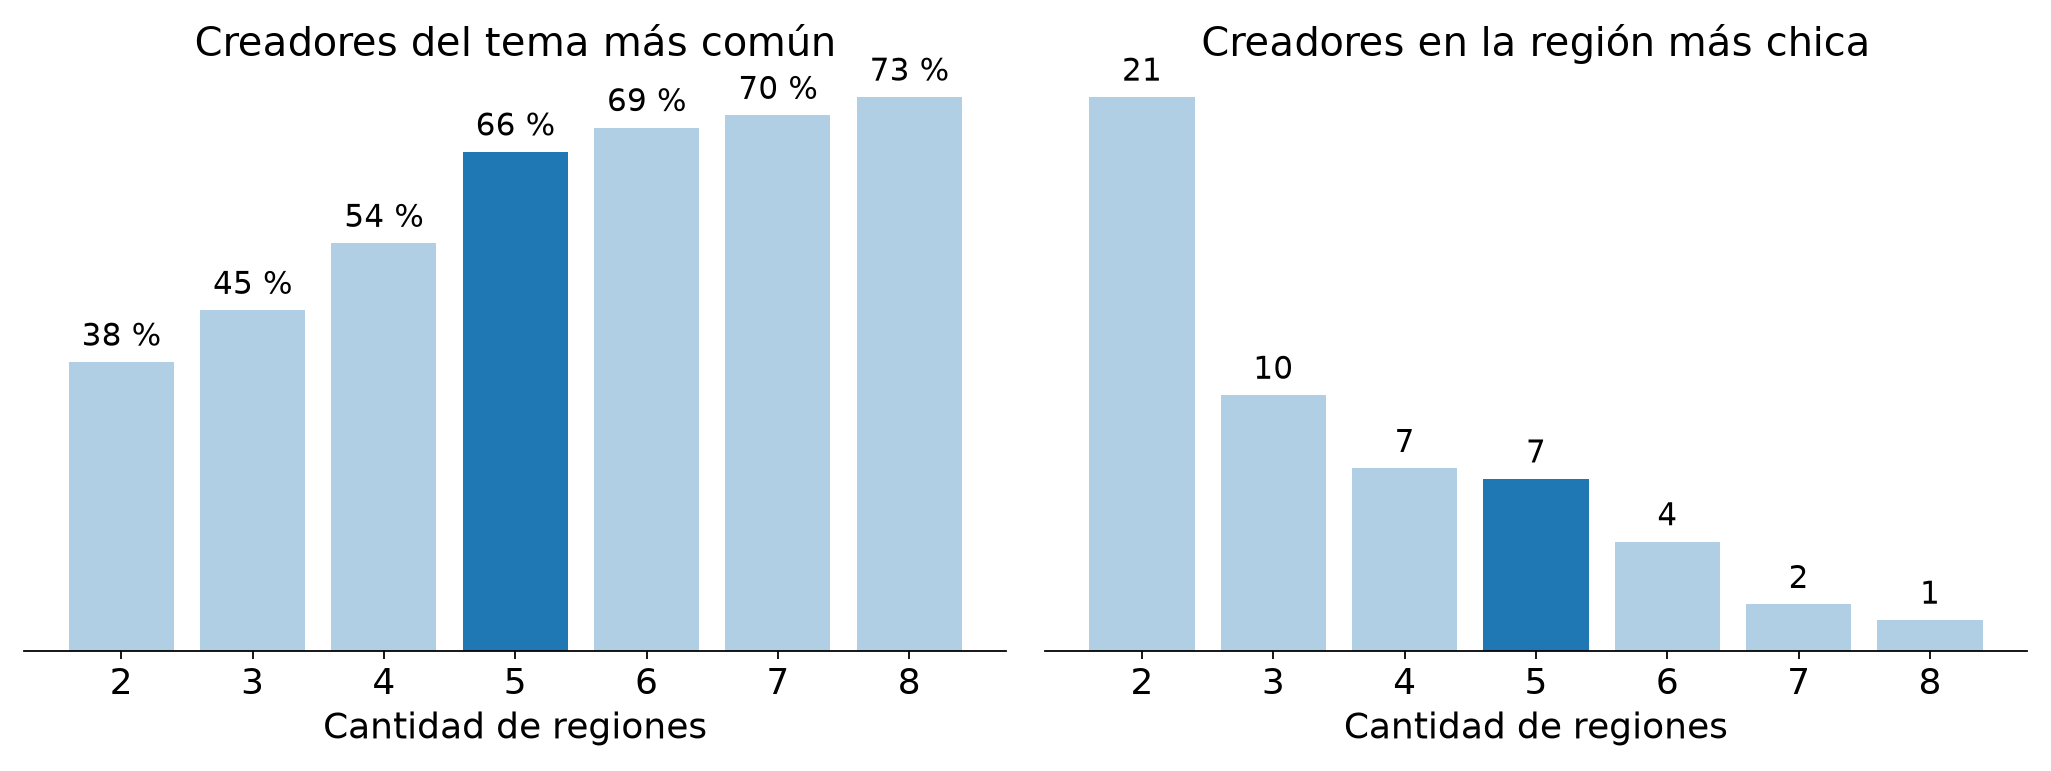
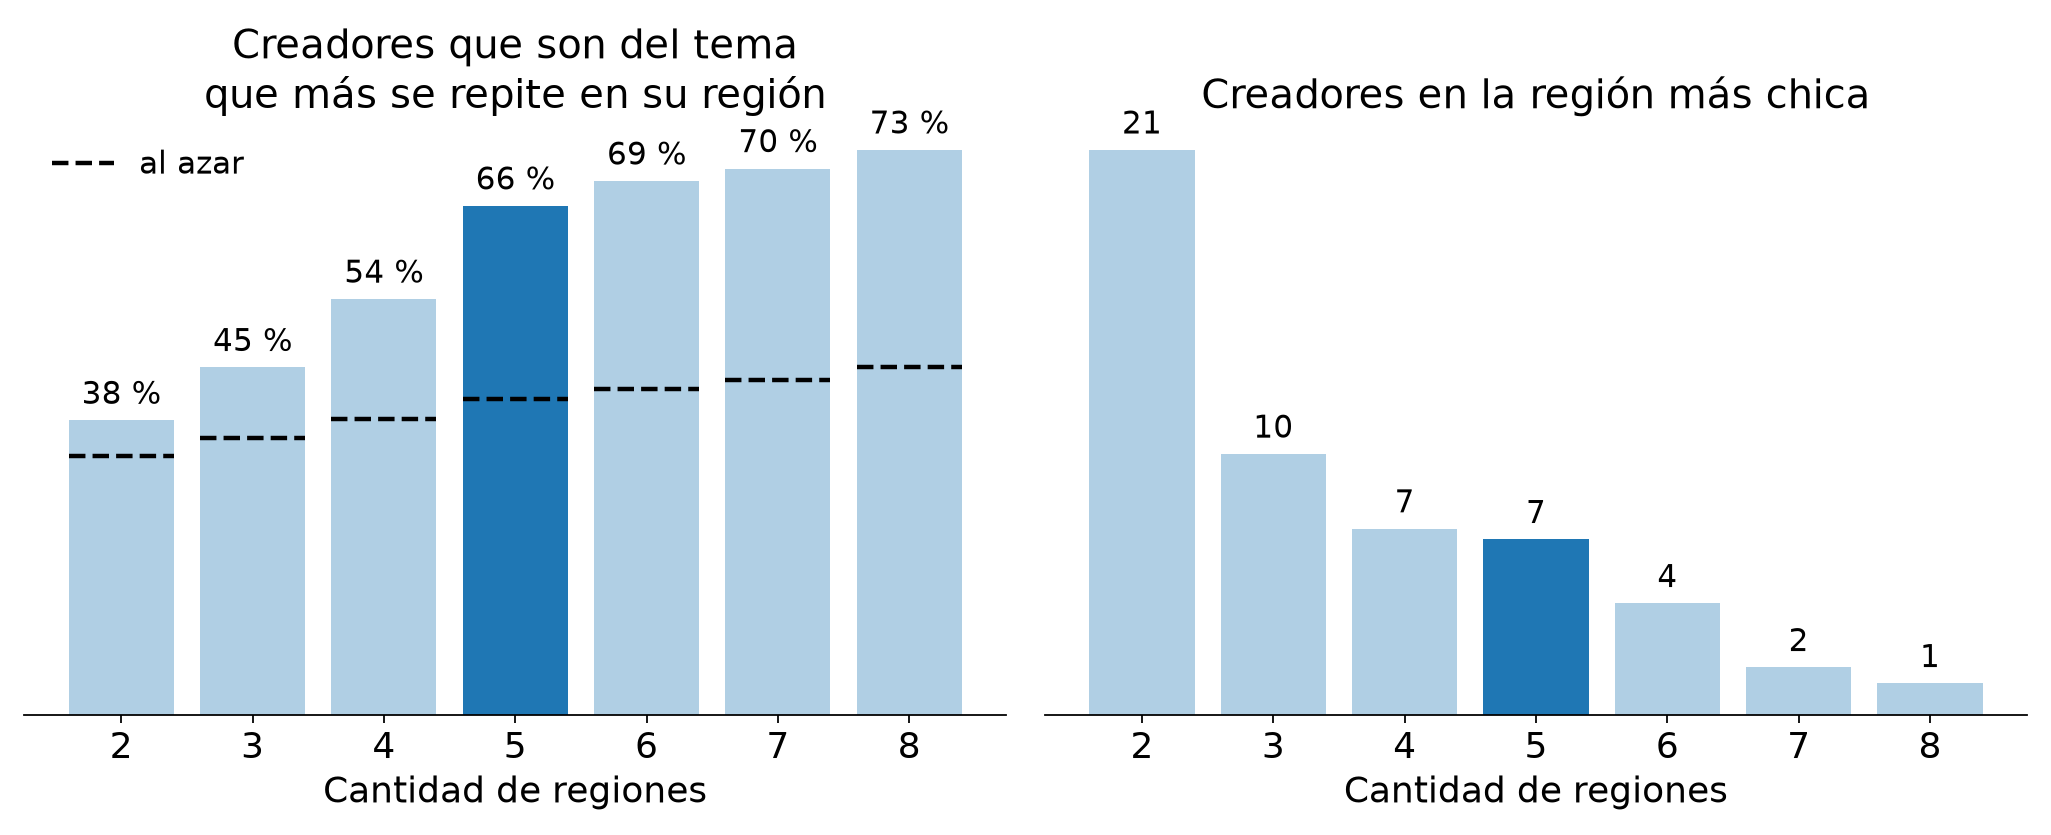
feat(tp4): muestra en la presentación cómo se elige a cada creador
Suma la diapositiva 31 con los dos pasos de la elección por cliente
(región objetivo y, dentro, los tres más baratos) y corre la numeración
de los documentos de estudio. La pureza de la diapositiva 17 se compara
con regiones al azar y la 10 explica qué es r.

diff --git a/TP4/presentation/index.html b/TP4/presentation/index.html
@@ -97,7 +97,7 @@
   <h2>Los seguidores predicen el precio, no dónde está la audiencia</h2>
   <figure><img src="assets/reports__presentacion__e1_seguidores.png" alt="Seguidores frente a precio y frente a audiencia argentina"></figure>
   <p class="take">Elegir por seguidores asegura tamaño, no llegar al público de los clientes.</p>
-  <aside class="notes">Cada punto es un creador. A más seguidores, más caro: r = 0,82. Pero con la audiencia argentina no hay ninguna relación: hay creadores enormes con 25 % de público argentino y chicos con 90 %. Tampoco predicen el costo por cuenta argentina alcanzada (r = −0,02). Por eso las campañas de la agencia tienen visibilidad pero no llegan a quien compra.</aside>
+  <aside class="notes">Cada punto es un creador. r es la correlación: 1 si suben juntos en línea recta, 0 si no hay relación, −1 si uno baja cuando el otro sube. A más seguidores, más caro: r = 0,82. Pero con la audiencia argentina no hay ninguna relación: hay creadores enormes con 25 % de público argentino y chicos con 90 %. Tampoco predicen el costo por cuenta argentina alcanzada (r = −0,02). Por eso las campañas de la agencia tienen visibilidad pero no llegan a quien compra.</aside>
 </section>
 
 <section class="figure has-take">
@@ -149,15 +149,15 @@
 <section class="figure has-take">
   <h2>Con 5 regiones aparecen los temas, sin regiones diminutas</h2>
   <figure><img src="assets/reports__presentacion__e1_regiones_cantidad.png" alt="Pureza de tema y tamaño de la región más chica según la cantidad de regiones"></figure>
-  <p class="take">Con más de 5, los temas casi no mejoran y quedan regiones de 1 a 4 creadores.</p>
-  <aside class="notes">Medias de 5 semillas. Pureza: qué parte de los creadores de cada región comparte el tema más común de esa región; con regiones al azar del mismo tamaño daría 0,41. Las 5 regiones se reproducen entre semillas (ARI 0,79) y cada creador sigue junto a sus compañeros de región en el 88–100 % de las semillas.</aside>
+  <p class="take">Con 5, dos de cada tres creadores comparten tema con su región: al azar sería 41 %. Con más, quedan regiones de 1 a 4.</p>
+  <aside class="notes">Medias de 5 semillas. La barra izquierda es la pureza: en cada región miramos el tema que más se repite y contamos cuántos creadores son de ese tema; 66 % es la suma sobre las cinco regiones dividida por los 50. La línea punteada es lo mismo con regiones del mismo tamaño armadas al azar: cuánto sale solo por tener más grupos. Con 5 regiones la diferencia es la más grande que se consigue sin regiones diminutas. Las 5 regiones se reproducen entre semillas (ARI 0,79) y cada creador sigue junto a sus compañeros de región en el 88–100 % de las semillas.</aside>
 </section>
 
 <section class="figure has-take">
   <h2>En diagonal, el mapa va de visibilidad a profundidad</h2>
   <figure><img src="assets/reports__presentacion__e1_planos_eje.png" alt="Planos de seguidores, alcance a no seguidores, tutoriales y guardados"></figure>
   <p class="take">Amarillo = valor alto. Seguidores crece hacia abajo a la derecha; tutoriales, hacia arriba a la izquierda.</p>
-  <aside class="notes">Cada cuadrado es una neurona, pintada con el valor de su prototipo en esa variable, en unidades originales. Las líneas negras son los bordes de las cinco regiones. Es el mismo eje que PC1, ahora sobre el mapa.</aside>
+  <aside class="notes">Cada cuadrado es una neurona, pintada con el valor de su prototipo en esa variable, en unidades originales. Las líneas negras son los bordes de las cinco regiones. Es el mismo eje que PC1, ahora sobre el mapa: la PC1 de los prototipos sigue la diagonal casi exacta (r = −0,99). PC2 va, más débil, por la otra diagonal (r = 0,78): alta abajo a la izquierda, en arte y exhibición, y baja en el resto.</aside>
 </section>
 
 <section class="figure has-take">
@@ -263,6 +263,13 @@
     <div class="art"><h3>Arte</h3><p class="want">quiere vender materiales</p><img src="assets/reports__presentacion__e1_mapa_art.png" alt="Regiones elegidas para arte"><p class="goal">creadores que muestran el material en uso</p></div>
   </div>
   <aside class="notes">Fútbol: golconmate, tribunacreativa, lookdecancha. Maquillaje: maquillajereal, brochasymates, mateconideas; brochasymates suma 45 % de tutoriales, y en belleza mostrar cómo se aplica es parte de la venta. Perros: huellasyconsejos, consejoscaninos, guiadehuellas; el objetivo son consultas y adopciones, que son locales y requieren confianza. Arte: rinconcreativo, colorenmovimiento, artequeinspira. Lo que buscamos sale del perfil de cada región: R4 y R5 llegan al 58–74 % de no seguidores; R1 es la comunidad que comenta, guarda y visita el perfil, con 66 % de audiencia argentina; R3 tiene la mayor proporción de exhibición de productos. Arte es el caso más débil, y PCA dice por qué: R3 está en la punta de PC2 opuesta a la audiencia argentina.</aside>
+</section>
+
+<section class="figure has-take">
+  <h2>Primero la región, después el más barato</h2>
+  <figure><img src="assets/reports__presentacion__e1_decision.png" alt="Candidatos de cada cliente por región y costo por cuenta argentina, con los elegidos y el top 3 por seguidores"></figure>
+  <p class="take">La franja es la región del cliente. Los elegidos son sus tres puntos más a la izquierda.</p>
+  <aside class="notes">Cada punto es un creador del tema del cliente, en la fila de su región. Más a la izquierda, más barato llegar a 1.000 cuentas argentinas. Paso 1: el mapa fija la franja (fútbol y maquillaje R4 + R5, perros R1, arte R3). Paso 2: dentro de la franja, los tres más baratos. En fútbol y maquillaje el top por seguidores ya está en R5 y comparte dos nombres con los elegidos; el tercero es mucho más caro. En perros ninguno de los tres más seguidos está en R1: son de las regiones de visibilidad. En arte comparten uno. El eje es logarítmico.</aside>
 </section>
 
 <section class="figure has-take">

diff --git a/TP4/analysis/presentation_catalog_figures.py b/TP4/analysis/presentation_catalog_figures.py
@@ -6,7 +6,7 @@ import matplotlib
 matplotlib.use('Agg')
 import matplotlib.pyplot as plt
 from matplotlib.colors import ListedColormap, LogNorm, Normalize
-from matplotlib.ticker import FixedLocator, FuncFormatter, NullFormatter
+from matplotlib.ticker import FixedLocator, FuncFormatter, LogLocator, NullFormatter
 from matplotlib.patches import Rectangle
 import numpy as np
 
@@ -174,17 +174,18 @@ def plot_biplot(frame, topics, pca, columns, path):
 
 
 def plot_followers(frame, path):
-    """Seguidores frente a precio y frente a audiencia argentina."""
-    panels = {'price_usd': 'Precio por publicación (USD)', 'argentina_audience_pct': 'Audiencia argentina (%)'}
+    """Seguidores frente a precio y frente a audiencia argentina. El título dice en palabras qué significa r."""
+    panels = {'price_usd': ('Precio por publicación (USD)', 'suben juntos'),
+              'argentina_audience_pct': ('Audiencia argentina (%)', 'sin relación')}
     fig, axes = plt.subplots(1, 2, figsize=(13, 5.2))
-    for ax, (column, label) in zip(axes, panels.items()):
+    for ax, (column, (label, reading)) in zip(axes, panels.items()):
         ax.scatter(frame.followers, frame[column], s=45, color='C0')
         ax.set(xscale='log', xlabel='Seguidores', ylabel=label)
         if column == 'price_usd':
             ax.set_yscale('log')
         correlation = np.corrcoef(frame.followers, frame[column])[0, 1]
-        ax.set_title(f'r = {correlation:+.2f}'.replace('.', ',').replace('+0,00', '0,00').replace('-0,00', '0,00'),
-                     fontsize=22, weight='bold')
+        coefficient = f'{correlation:+.2f}'.replace('.', ',').replace('+0,00', '0,00').replace('-0,00', '0,00')
+        ax.set_title(f'r = {coefficient}: {reading}', fontsize=22, weight='bold')
     _save(fig, path)
 
 
@@ -273,11 +274,12 @@ def plot_region_merges(catalog, path):
     _save(fig, path)
 
 
-def plot_region_count(table, path):
-    """Por qué cinco regiones: es la primera cantidad que separa los temas sin dejar regiones minúsculas."""
-    panels = {'topic_purity': ('Creadores del tema más común', '{:.0%}'),
+def plot_region_count(table, random_purity, path):
+    """Por qué cinco regiones: es la primera cantidad que separa los temas sin dejar regiones minúsculas.
+    La pureza se compara con la de regiones del mismo tamaño armadas al azar."""
+    panels = {'topic_purity': ('Creadores que son del tema\nque más se repite en su región', '{:.0%}'),
               'smallest_region': ('Creadores en la región más chica', '{:.0f}')}
-    fig, axes = plt.subplots(1, len(panels), figsize=(13, 5))
+    fig, axes = plt.subplots(1, len(panels), figsize=(13, 5.4))
     for ax, (column, (title, pattern)) in zip(axes, panels.items()):
         bars = ax.bar(table.regions, table[column],
                       color=[KEPT if count == REGION_COUNT else DROPPED for count in table.regions])
@@ -285,6 +287,10 @@ def plot_region_count(table, path):
                      fontsize=14)
         ax.set(title=title, xlabel='Cantidad de regiones', xticks=table.regions, yticks=[])
         ax.spines['left'].set_visible(False)
+    chance = random_purity.reindex(table.regions)
+    axes[0].hlines(chance, table.regions - .4, table.regions + .4, colors='black', linestyles='--', lw=2,
+                   label='al azar')
+    axes[0].legend(loc='upper left', fontsize=14)
     _save(fig, path)
 
 
@@ -339,6 +345,38 @@ def plot_client_map(catalog, topic, path):
     fig, ax = plt.subplots(figsize=(2.8, 2.8))
     draw_region_map(ax, catalog, facecolors=[matplotlib.colors.to_rgba(color, .55) for color in colors])
     ax.axis('off')
+    _save(fig, path)
+
+
+def plot_decision(frame, selections, region_names, path):
+    """Los dos pasos de la elección, por cliente: la franja es la región objetivo y, dentro, los tres más baratos."""
+    positions = {region: index for index, region in enumerate(region_names)}
+    fig, axes = plt.subplots(1, len(TOPICS), figsize=(13, 5.4), sharey=True)
+    for ax, topic in zip(axes, TOPICS):
+        candidates = frame[frame.main_topic == topic]
+        picks = selections[selections.topic == topic]
+        rows = candidates.region.map(positions)
+        in_target = candidates.region.isin(TARGET_REGIONS[topic])
+        for region in TARGET_REGIONS[topic]:
+            ax.axhspan(positions[region] - .45, positions[region] + .45, color=TOPIC_COLORS[topic], alpha=.18, lw=0)
+        ax.scatter(candidates.cpm_arg[~in_target], rows[~in_target], s=60, color=MUTED, alpha=.6)
+        ax.scatter(candidates.cpm_arg[in_target], rows[in_target], s=60, color=TOPIC_COLORS[topic])
+        for strategy, style in {'seguidores': dict(marker='s', s=200, edgecolors=FOLLOWERS_COLOR),
+                                'som': dict(marker='o', s=330, edgecolors='black')}.items():
+            chosen = candidates[candidates.name.isin(picks[picks.strategy == strategy].name)]
+            ax.scatter(chosen.cpm_arg, chosen.region.map(positions), facecolors='none', lw=2.5, **style)
+        ax.set_xscale('log')
+        ax.xaxis.set_major_locator(LogLocator(subs=(1, 2, 5)))
+        ax.xaxis.set_major_formatter(FuncFormatter(lambda value, _position: f'{value:g}'))
+        ax.xaxis.set_minor_formatter(NullFormatter())
+        ax.set_title(TOPIC_LABELS[topic], fontsize=20)
+    axes[0].set(yticks=range(len(region_names)), yticklabels=region_names, ylim=(len(region_names) - .5, -.5))
+    fig.supxlabel('USD por 1.000 cuentas argentinas (más a la izquierda, más barato)', fontsize=16, y=.04)
+    handles = [plt.Line2D([], [], marker='o', ls='', mfc='none', mec='black', mew=2.5, ms=16, label='elegidos'),
+               plt.Line2D([], [], marker='s', ls='', mfc='none', mec=FOLLOWERS_COLOR, mew=2.5, ms=13,
+                          label='top 3 por seguidores'),
+               plt.Line2D([], [], marker='o', ls='', color=MUTED, alpha=.6, ms=9, label='fuera de la región')]
+    fig.legend(handles=handles, loc='lower center', bbox_to_anchor=(.5, -.1), ncol=3, fontsize=17)
     _save(fig, path)
 
 

diff --git a/TP4/analysis/presentation_figures.py b/TP4/analysis/presentation_figures.py
@@ -23,7 +23,8 @@ from analysis import presentation_qr_figures as qr_figures
 from analysis.eda import TOPICS
 from analysis.hopfield_qr import load_patterns
 from analysis.som_campanas import (
-    catalog_map, criterion_selections, prepare, strategy_selections, train_maps, with_regions,
+    catalog_map, criterion_selections, prepare, random_purity_by_count, strategy_selections, train_maps,
+    with_regions,
 )
 from src.tp4.pca import compute_pca
 from src.tp4.shared_modules import SharedModules
@@ -42,7 +43,8 @@ def catalog(out):
     columns = preprocessor.columns_
     topics = frame.main_topic.to_numpy()
     pca = compute_pca(x)
-    som_catalog = catalog_map(train_maps(x), x, frame.followers.to_numpy())
+    soms = train_maps(x)
+    som_catalog = catalog_map(soms, x, frame.followers.to_numpy())
     frame = with_regions(frame, som_catalog)
     planes = {column: values for column, values in zip(columns, (som_catalog.som.weights_ * preprocessor.scale_
                                                                  + preprocessor.mean_).T)}
@@ -58,13 +60,14 @@ def catalog(out):
     catalog_figures.plot_occupancy(x, out / 'e1_ocupacion.png')
     catalog_figures.plot_region_merges(som_catalog, out / 'e1_regiones_union.png')
     catalog_figures.plot_region_count(pd.read_csv(ROOT / 'reports' / 'ejercicio1' / 'som' / 'cantidad_regiones.csv'),
-                                      out / 'e1_regiones_cantidad.png')
+                                      random_purity_by_count(soms, x, topics), out / 'e1_regiones_cantidad.png')
     catalog_figures.plot_planes(som_catalog, planes, catalog_figures.VISIBILITY_PLANES, out / 'e1_planos_eje.png')
     catalog_figures.plot_planes(som_catalog, planes, catalog_figures.TOPIC_PLANES, out / 'e1_planos_temas.png')
     catalog_figures.plot_reach_on_pc1(frame, out / 'e1_masivo_descubrimiento.png')
     catalog_figures.plot_football(frame, selections, criteria, out / 'e1_futbol.png')
     for topic in TOPICS:
         catalog_figures.plot_client_map(som_catalog, topic, out / f'e1_mapa_{topic}.png')
+    catalog_figures.plot_decision(frame, selections, som_catalog.region_names, out / 'e1_decision.png')
     catalog_figures.plot_cost(selections, out / 'e1_costo.png')
 
 

diff --git a/TP4/analysis/som_campanas.py b/TP4/analysis/som_campanas.py
@@ -92,6 +92,17 @@ def region_count_table(soms, x, topics):
     return pd.DataFrame(rows)
 
 
+def random_purity_by_count(soms, x, topics, permutations=200, seed=0):
+    """Pureza de tema que darían regiones del mismo tamaño armadas al azar, para cada cantidad de regiones."""
+    rng = np.random.default_rng(seed)
+    baseline = {}
+    for count in REGION_COUNT_CANDIDATES:
+        assignments = [creator_regions(som, x, count) for som in soms]
+        baseline[count] = float(np.mean([topic_purity(rng.permutation(regions), topics)
+                                         for regions in assignments for _ in range(permutations)]))
+    return pd.Series(baseline, name='random_purity')
+
+
 def catalog_map(soms, x, followers):
     reference = soms[0]
     labels = contiguous_ward(reference.weights_, reference.grid.adjacency, REGION_COUNT)
